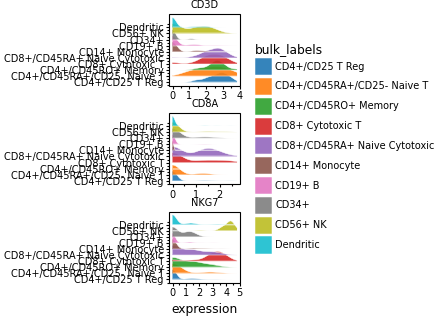
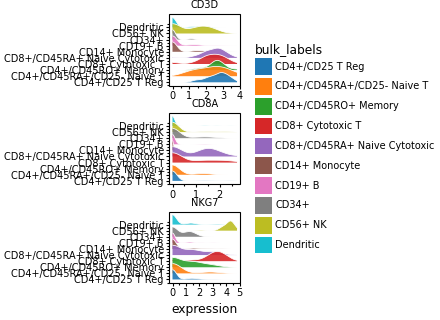
fix: blend overlapping ridges in plot_ridge instead of clipping them
A single geom_ribbon layer painted higher rows on top of lower ones, so each
ridge's peak was clipped by the row above and the full-ribbon white outline
looked boxed/cut. Draw the ridges top-first as per-group layers so lower ones
render in front and overlap cleanly, and outline only the top edge (geom_line
on ymax) so the silhouettes blend -- the classic joyplot look.

Claude-Session: https://claude.ai/code/session_015HrvqstMUbu3ZNVDuzbbLV

diff --git a/src/anngg/ridge.py b/src/anngg/ridge.py
@@ -15,6 +15,7 @@ import plotnine_extra as pe
 from plotnine import (
     aes,
     element_blank,
+    geom_line,
     geom_ribbon,
     ggplot,
     labs,
@@ -96,9 +97,19 @@ def plot_ridge(
     long[group_by] = pd.Categorical(long[group_by], categories=order, ordered=True)
     long["feature"] = pd.Categorical(long["feature"], categories=[str(x) for x in genes], ordered=True)
 
+    # Draw top ridges first so lower ones layer IN FRONT and overlap cleanly
+    # (a single ribbon layer paints higher rows on top, clipping the peaks below).
+    # Each ridge is a filled area with a thin white line tracing only its top edge,
+    # not a boxed outline -- so the silhouettes blend instead of looking cut.
+    plot = ggplot(long, aes("x"))
+    for g in reversed(order):
+        gd = long[long[group_by] == g]
+        plot = plot + geom_ribbon(
+            aes(ymin="ymin", ymax="ymax", fill=group_by), data=gd, alpha=0.9
+        )
+        plot = plot + geom_line(aes(y="ymax"), data=gd, color="white", size=0.4)
     return (
-        ggplot(long, aes("x", ymin="ymin", ymax="ymax", fill=group_by, group=group_by))
-        + geom_ribbon(color="white", size=0.25, alpha=0.9)
+        plot
         + pe.facet_wrap("~feature", ncol=ncol, scales="free_x")
         + scale_fill_obs(adata, group_by)
         + scale_y_continuous(breaks=list(pos.values()), labels=order)